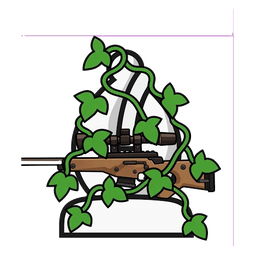
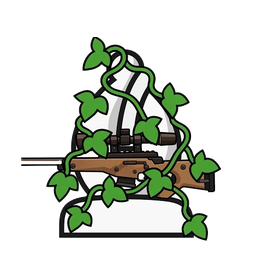
pol-q1: Sniper Bishop sprite (AoREbapF7y0): stray square-border lines from the frame cut removed

Changed region(s): [[0.0938, 0.0312, 0.9375, 0.9375]]

diff --git a/rebuild/research/polish_report.md b/rebuild/research/polish_report.md
@@ -86,3 +86,5 @@ Ids mymJwfSPeFA .. zxRM5dD5b7w (125). QA results: /workspace/work/cm_pol-q4/qa (
 - Art pass (all 125 shots vs thumbs/frame notes): sv3DeeGsB2E (Extra Dragons vs Croissant) board was a grey histogram of the webcam frames;
   video is on lichess (frames: lichess "Create a game", cburnett set; thumbnail brown board) -> lichess brown #f0d9b5/#b58863 + cburnett pieces.
 RESUME: last id finished = art pass all 125; gameplay pass not started
+  (wrong tone on the app board, a beige box on dark squares). Keyed out from the border (tools/polq1/key_square.py) + shyguy inner pockets. 9764bf4
+- AoREbapF7y0 (Sniper Bishops): sniper.png had the video's square border lines (pink top line, grey right line, stray pixels) baked in; removed.
